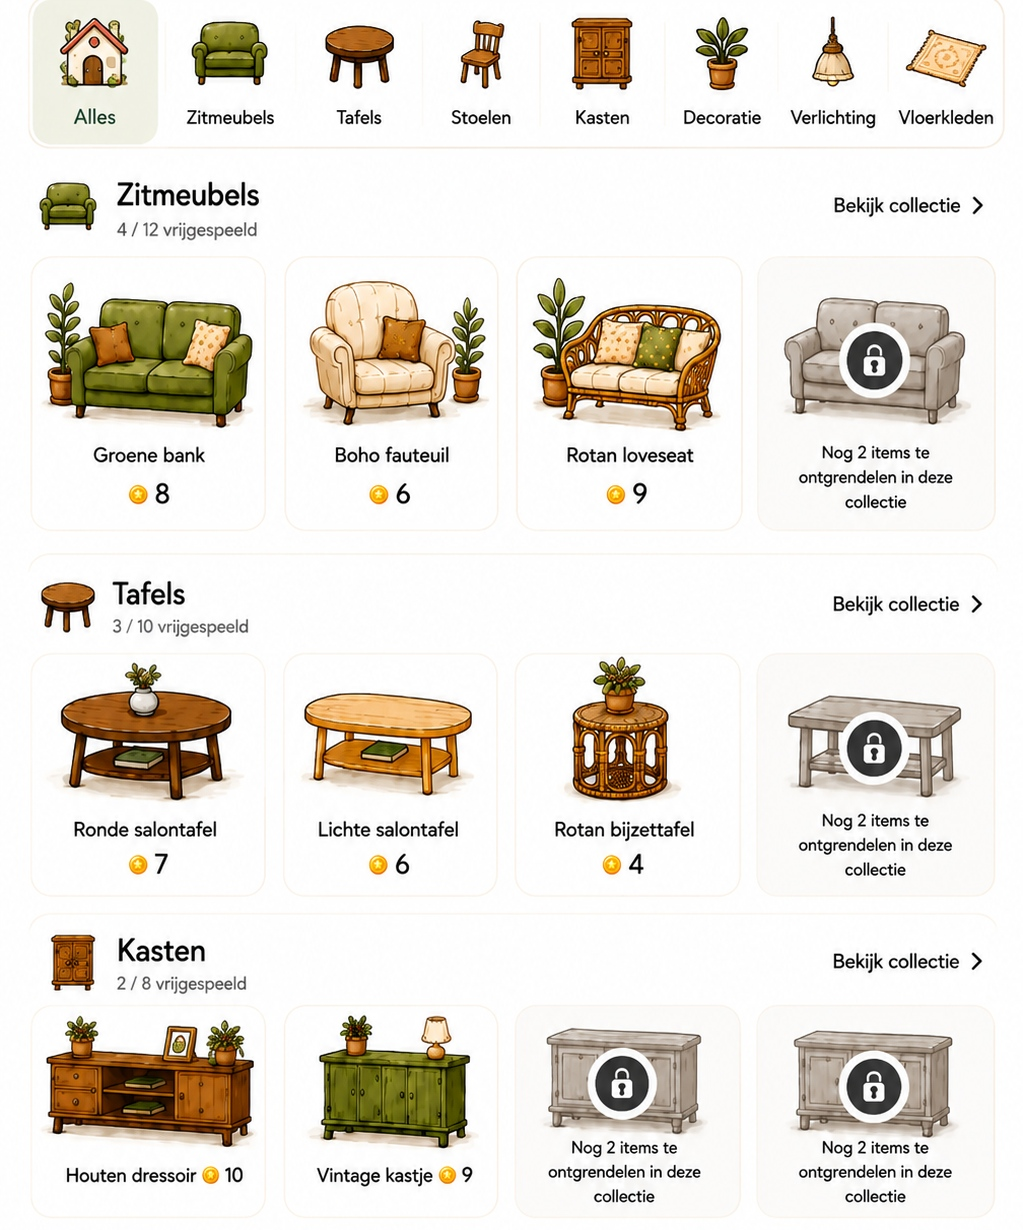
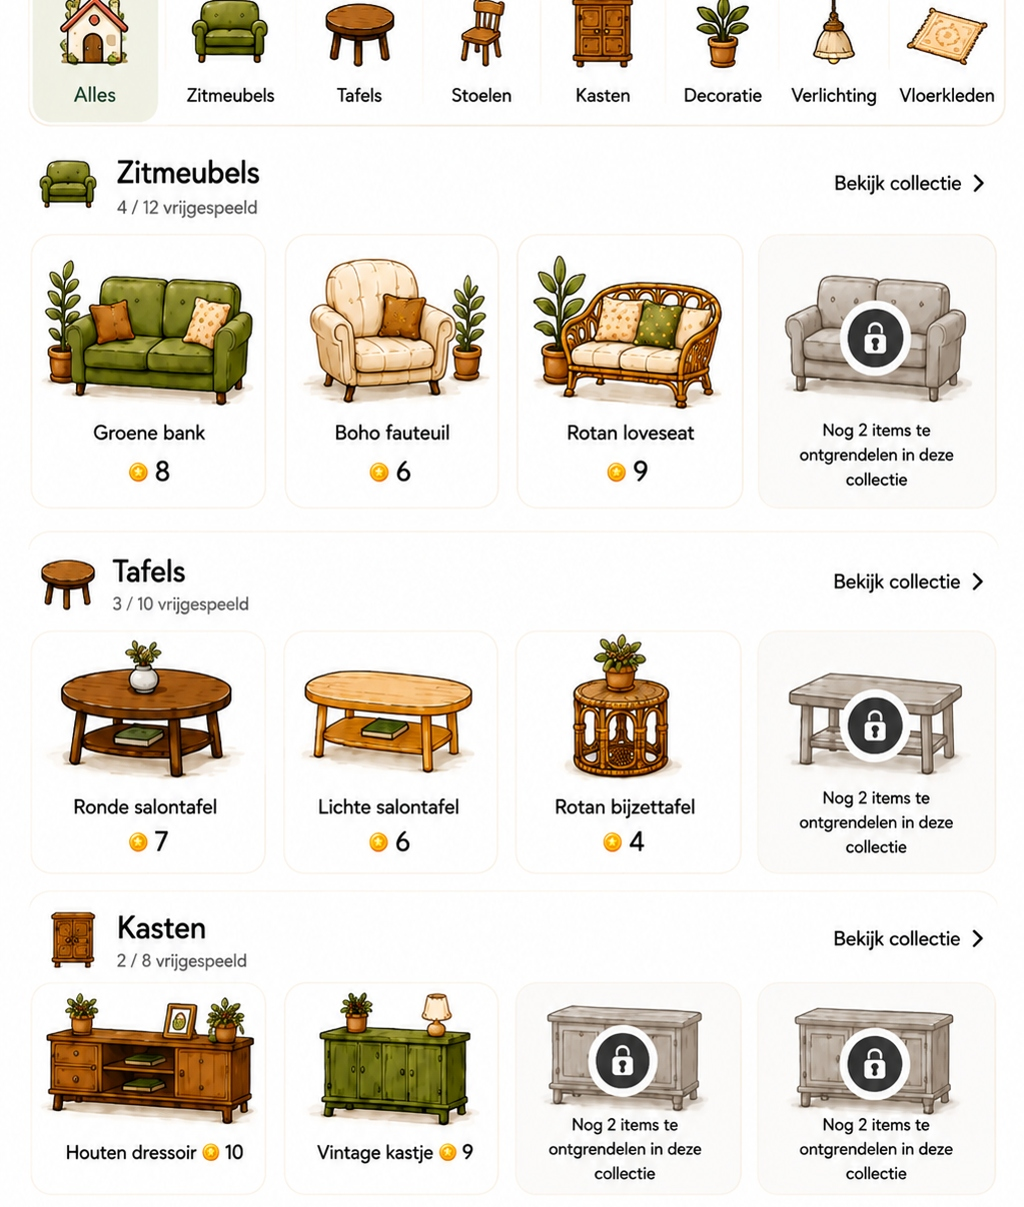
Add files via upload

diff --git a/style.css b/style.css
@@ -7,32 +7,43 @@ body{display:flex;justify-content:center}
 .home-img{display:block;width:100%;height:100%;object-fit:contain;object-position:top center}
 .hit{position:absolute;border:0;background:transparent;padding:0;cursor:pointer;z-index:8}
 
-/* Home */
+/* Existing home hotspots */
 .bedroom{left:28%;top:25%;width:29%;height:15%} .bathroom{left:57%;top:25%;width:29%;height:15%}
 .living{left:25%;top:40%;width:31%;height:15%} .kitchen{left:57%;top:40%;width:30%;height:15%}
 .hall{left:25%;top:55%;width:31%;height:14%} .laundry{left:57%;top:55%;width:30%;height:14%}
 .terrace{left:29%;top:69%;width:58%;height:15%}
-.nav{top:89.2%;height:8.7%;width:18%} .n-home{left:4%} .n-shop{left:22%} .n-inventory{left:41%} .n-levels{left:60%} .n-more{left:79%}
+.nav{top:87.75%;height:12.25%;width:20%}
+.n-home{left:0} .n-shop{left:20%} .n-inventory{left:40%} .n-levels{left:60%} .n-more{left:80%}
 
-/* Approved shop: white background, no extra white band, no grass */
+/* V13: exact measured proportions from Mijn huis */
 .shop-screen.active{display:flex;flex-direction:column;height:100%;background:#fff}
-.shop-top{flex:0 0 10.4750%;height:10.4750%;overflow:hidden;background:#fff}
-.shop-top img{display:block;width:100%;height:100%;object-fit:fill}
+.fixed-top{flex:0 0 10.0911%;height:10.0911%;background:#fff;overflow:hidden}
+.fixed-top img{display:block;width:100%;height:100%;object-fit:fill}
+
 .shop-scroll{flex:1 1 auto;min-height:0;overflow-y:auto;overflow-x:hidden;-webkit-overflow-scrolling:touch;scrollbar-width:none;background:#fff}
 .shop-scroll::-webkit-scrollbar{display:none}
 .shop-scroll img{display:block;width:100%;height:auto}
-.shop-bottom{flex:0 0 9.4990%;height:9.4990%;position:relative;background:#fff;z-index:10}
-.shop-bottom>img{display:block;width:100%;height:100%;object-fit:fill}
-.bnav{top:0;height:100%;width:20%} .bh{left:0} .bs{left:20%} .bi{left:40%} .bl{left:60%} .bm{left:80%}
+
+.fixed-bottom{flex:0 0 12.2396%;height:12.2396%;position:relative;background:#fff;z-index:10}
+.fixed-bottom>img{display:block;width:100%;height:100%;object-fit:fill}
+.bnav{top:0;height:100%;width:20%}
+.bh{left:0} .bs{left:20%} .bi{left:40%} .bl{left:60%} .bm{left:80%}
 
 /* Existing panels */
-.panel{position:fixed;inset:0;background:#0005;display:flex;align-items:flex-end;justify-content:center;z-index:20} .panel[hidden]{display:none}
+.panel{position:fixed;inset:0;background:#0005;display:flex;align-items:flex-end;justify-content:center;z-index:20}
+.panel[hidden]{display:none}
 .panel-card{width:min(590px,100%);background:#fff9f1;border-radius:28px 28px 0 0;padding:24px 20px 30px;max-height:75vh;overflow:auto;position:relative}
 .close{position:absolute;right:18px;top:13px;border:0;background:#f1dfd2;border-radius:50%;width:38px;height:38px;font-size:28px}
-.panel-icon{font-size:38px} .panel-card h2{margin:4px 0 3px} .panel-card p{margin-top:0;color:#74665b}
+.panel-icon{font-size:38px}
+.panel-card h2{margin:4px 0 3px}
+.panel-card p{margin-top:0;color:#74665b}
 .task-row{display:flex;width:100%;gap:12px;align-items:center;border:1px solid #ead8c8;background:#fffdf9;border-radius:16px;margin:10px 0;padding:13px;text-align:left;font-size:16px}
-.task-row.done{background:#dceacf;border-color:#aac88d} .task-check{font-size:24px} .task-sub{display:block;font-size:12px;color:#89796e;margin-top:4px}
-.simple-screen{position:absolute;inset:0;background:#fff;padding:30px 20px} .simple-screen[hidden]{display:none}
-.simple-card{margin-top:60px;background:#fffaf3;border:1px solid #ead8c8;border-radius:24px;padding:35px 24px;text-align:center} .simple-card>div{font-size:48px}
-.toast{position:fixed;left:50%;bottom:110px;transform:translateX(-50%) translateY(20px);background:#3f4932;color:white;padding:12px 18px;border-radius:999px;z-index:30;opacity:0;transition:.2s}
+.task-row.done{background:#dceacf;border-color:#aac88d}
+.task-check{font-size:24px}
+.task-sub{display:block;font-size:12px;color:#89796e;margin-top:4px}
+.simple-screen{position:absolute;inset:0;background:#fff;padding:30px 20px}
+.simple-screen[hidden]{display:none}
+.simple-card{margin-top:60px;background:#fffaf3;border:1px solid #ead8c8;border-radius:24px;padding:35px 24px;text-align:center}
+.simple-card>div{font-size:48px}
+.toast{position:fixed;left:50%;bottom:110px;transform:translateX(-50%) translateY(20px);background:#3f4932;color:#fff;padding:12px 18px;border-radius:999px;z-index:30;opacity:0;transition:.2s}
 .toast.show{opacity:1;transform:translateX(-50%) translateY(0)}

diff --git a/index.html b/index.html
@@ -27,10 +27,14 @@
   </main>
 
   <main id="shopScreen" class="screen shop-screen">
-    <div class="shop-top"><img src="shop-top.jpg" alt="Homey"></div>
-    <div class="shop-scroll"><img src="shop-middle.jpg" alt="Winkeltje"></div>
-    <div class="shop-bottom">
-      <img src="shop-bottom.jpg" alt="Navigatie">
+    <div class="fixed-top"><img src="fixed-top.jpg" alt="Homey"></div>
+
+    <div class="shop-scroll">
+      <img src="shop-middle.jpg" alt="Winkeltje">
+    </div>
+
+    <div class="fixed-bottom">
+      <img src="fixed-shop-nav.jpg" alt="Navigatie">
       <button class="hit bnav bh" data-nav="home"></button>
       <button class="hit bnav bs" data-nav="shop"></button>
       <button class="hit bnav bi" data-nav="inventory"></button>
